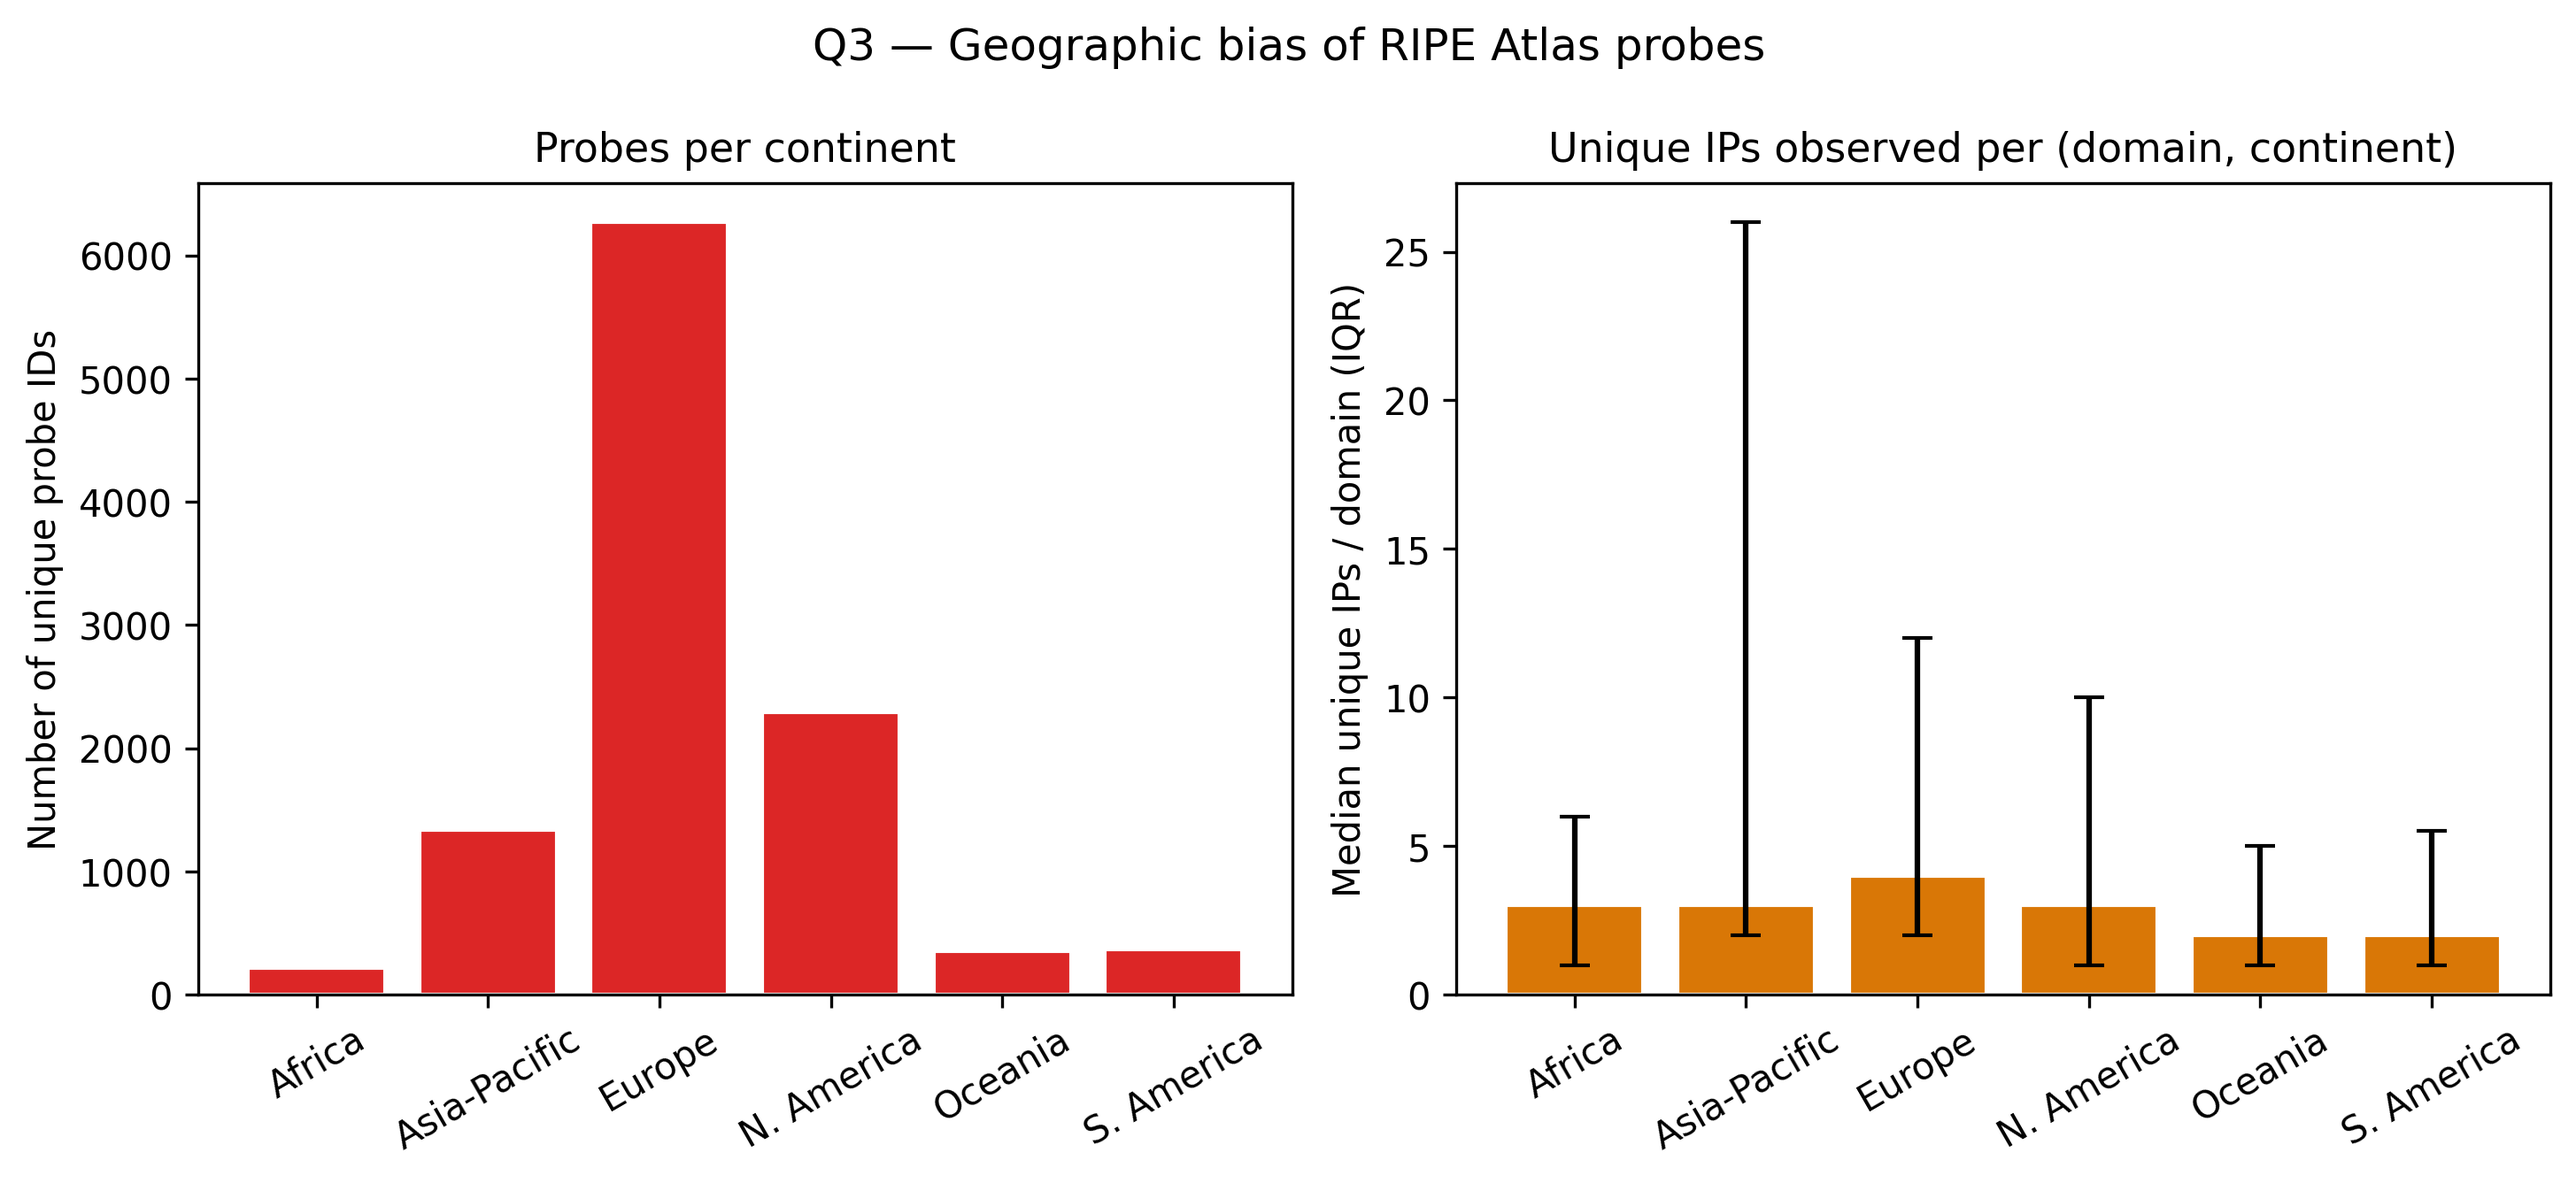
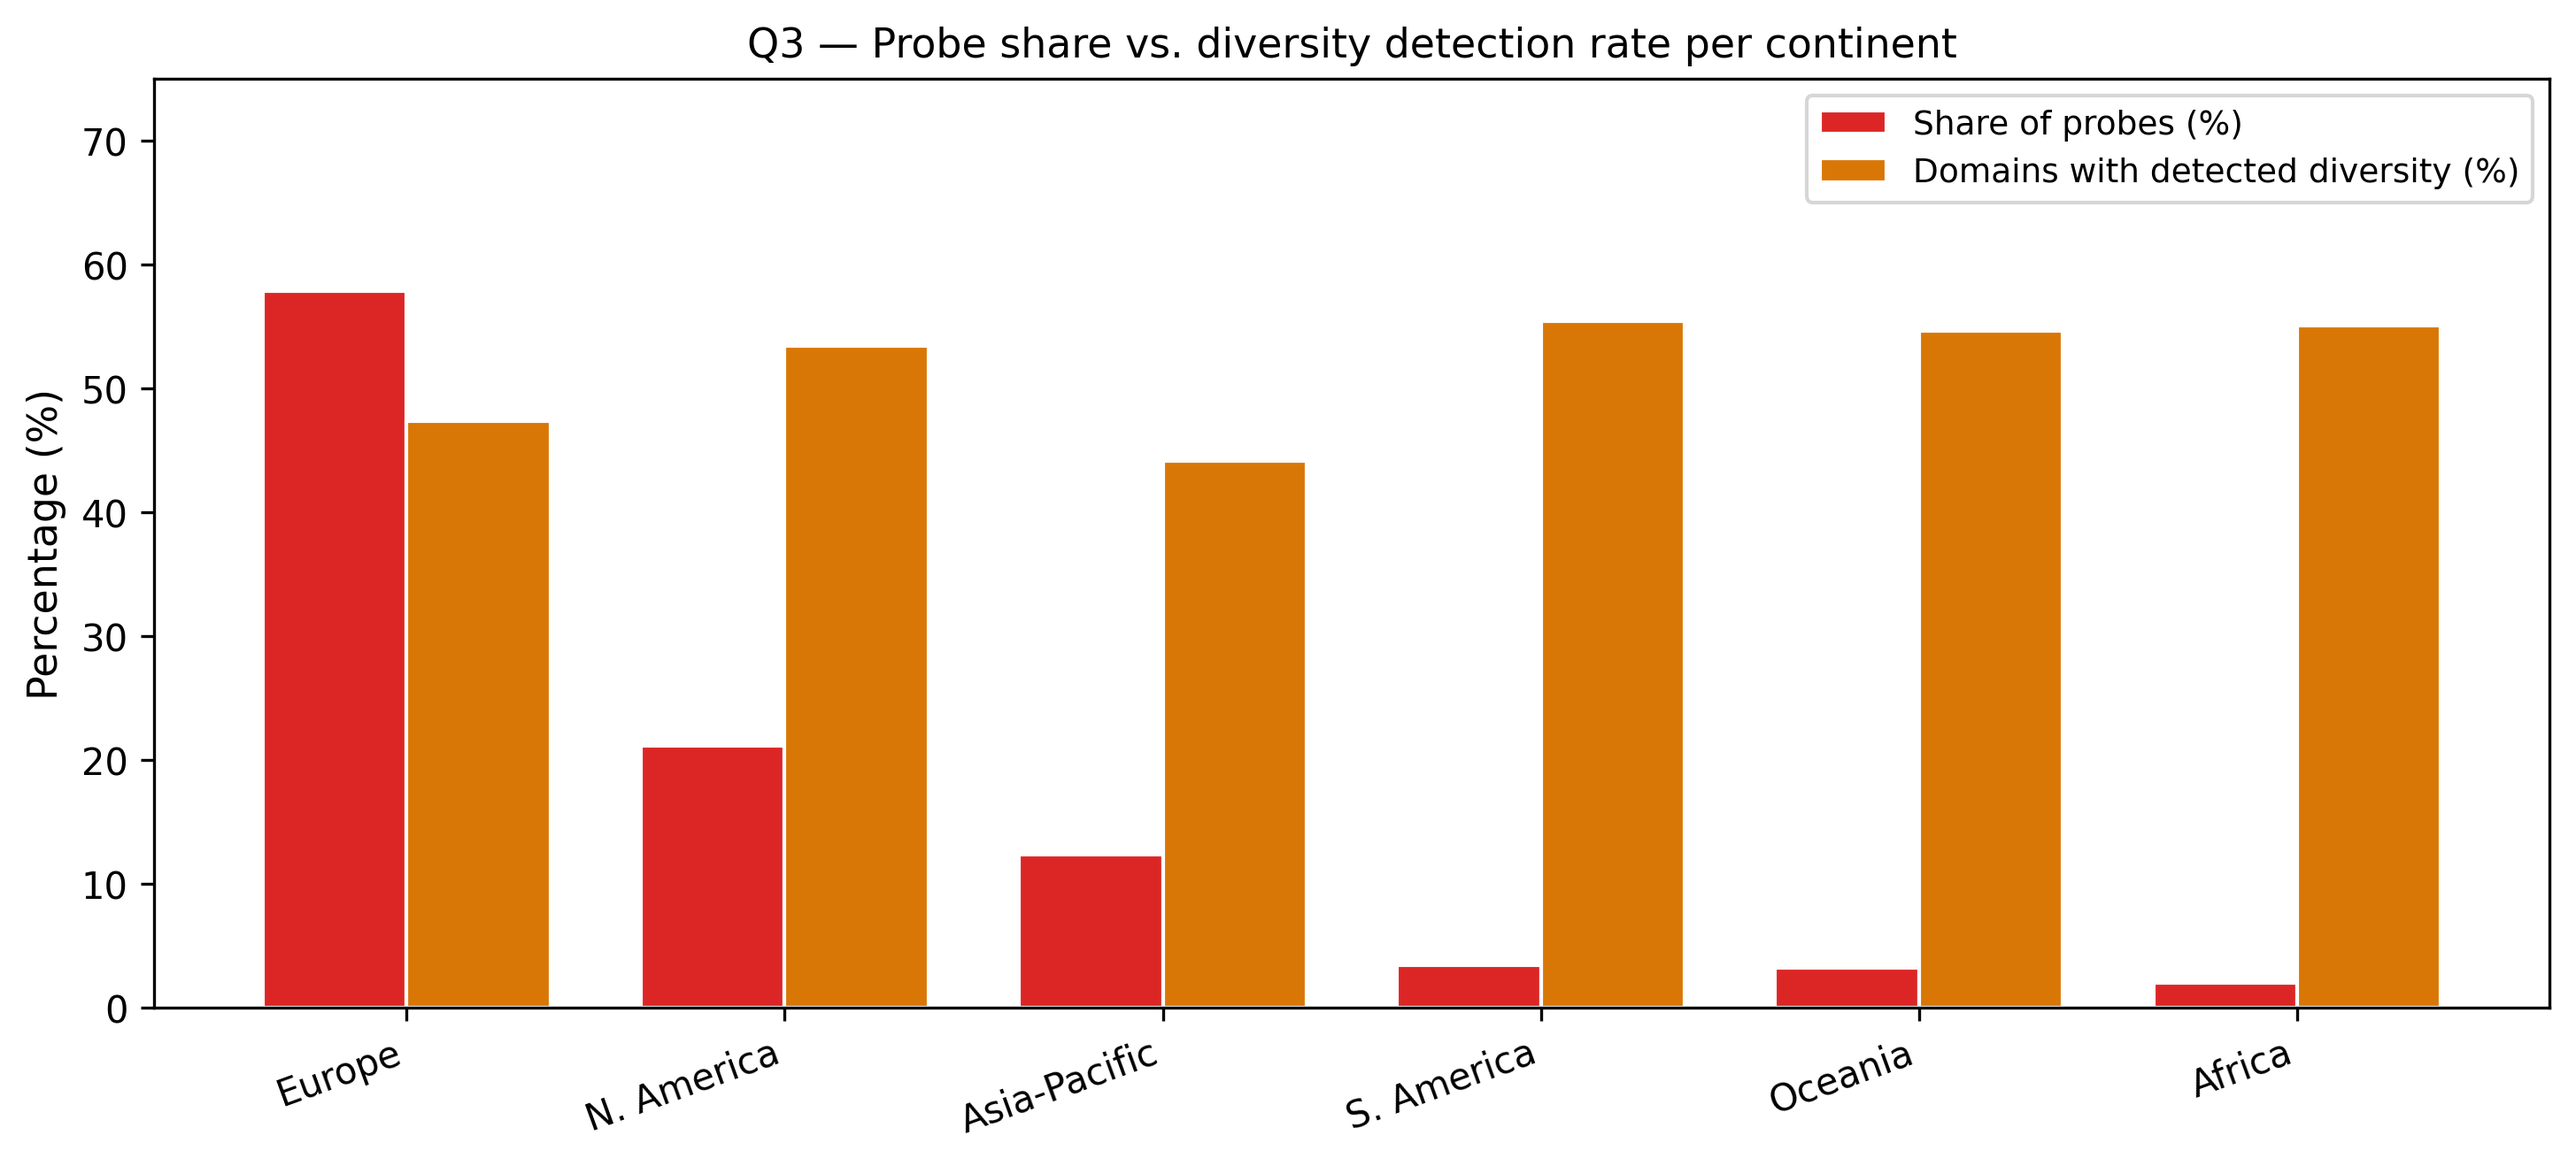
Q3: nouvelle figure probe share vs diversité, interprétation mise à jour

diff --git a/latex/long/04-results.tex b/latex/long/04-results.tex
@@ -57,19 +57,19 @@ Table~\ref{tab:4.2} reports the geographic distribution of the 10,819 unique pro
 \begin{table}[H]
 \centering
 \small
-\caption{Geographic distribution of unique probe IDs by continent (2--18 April 2026)}
+\caption{Geographic distribution of unique probe IDs by continent (2--18 April 2026). ``Countries covered'' is the number of distinct countries contributing at least one probe across the full campaign; ``Avg.\ probes/country'' is the ratio of unique probe IDs to countries covered, reflecting sampling density.}
 \label{tab:4.2}
-\begin{tabular}{l r r}
+\begin{tabular}{l r r r r}
 \toprule
-\textbf{Continent} & \textbf{Unique probe IDs} & \textbf{Share (\%)} \\
+\textbf{Continent} & \textbf{Unique probe IDs} & \textbf{Share (\%)} & \textbf{Countries covered} & \textbf{Avg.\ probes/country} \\
 \midrule
-Europe          & 6,251 & 57.8\% \\
-North America   & 2,293 & 21.2\% \\
-Asia-Pacific    & 1,338 & 12.4\% \\
-South America   &   371 &  3.4\% \\
-Oceania         &   349 &  3.2\% \\
-Africa          &   217 &  2.0\% \\
-\textbf{Total}  & \textbf{10,819} & \textbf{100\%} \\
+Europe          & 6,270 & 57.8\% & 44  & 142.5 \\
+North America   & 2,293 & 21.2\% & 13  & 176.4 \\
+Asia-Pacific    & 1,339 & 12.4\% & 63  &  21.3 \\
+South America   &   371 &  3.4\% & 10  &  37.1 \\
+Oceania         &   350 &  3.2\% &  8  &  43.8 \\
+Africa          &   217 &  2.0\% & 35  &   6.2 \\
+\textbf{Total}  & \textbf{10,840} & \textbf{100\%} & \textbf{173} & \textbf{62.7} \\
 \bottomrule
 \end{tabular}
 \end{table}
@@ -103,14 +103,14 @@ The 111 remaining domains (44.9\%) returned a consistent set of IP addresses acr
 \begin{figure}[H]
 \centering
 \includegraphics[width=0.85\textwidth]{figures/fig_q1a_ip_set_diversity.png}
-\caption{Distribution of the number of distinct IP address sets observed across continental probe groups (17-day measurement window, 247 domains). A value of 1 indicates a uniform response across all continents; values above 1 indicate geographic differentiation.}
+\caption{Distribution of the number of distinct IP address sets per domain, at two geographic granularities (17-day measurement window, 247 domains). \textit{Left}: continent-level --- a value of 1 indicates a uniform response across all six continental probe groups; values above 1 indicate cross-continental differentiation. \textit{Right}: country-level --- the long tail extending to 54 distinct IP sets reflects fine-grained CDN routing that differentiates responses at the individual country level.}
 \label{fig:q1a}
 \end{figure}
 
 \begin{figure}[H]
 \centering
 \includegraphics[width=0.85\textwidth]{figures/fig_q1b_top20_geo_diverse.png}
-\caption{Top 20 most geographically diverse domains, ranked by mean number of distinct IP address sets observed across continental probe groups.}
+\caption{Top 20 most geographically diverse domains, ranked by mean number of distinct IP address sets observed at the country level. Values annotated on each bar are the mean count over the 17-day measurement window.}
 \label{fig:q1b}
 \end{figure}
 
@@ -124,9 +124,9 @@ Among the 136 continent-diverse domains, the NSID presence rate is expected to b
 \subsection{Interpretation}
 \label{subsec:4.2.3}
 
-The 55.1\% continent-level geographic diversity rate among the Tranco Top 250 is consistent with the CDN-heavy composition of the top-ranked domains: major web properties served by Cloudflare, Akamai, Fastly, or Amazon CloudFront routinely return different IP pools to different geographic regions. The 10.43 mean country-level IP sets suggests that CDN operators maintain fine-grained geographic routing tables at the country or even sub-country level.
+The 55.1\% continent-level geographic diversity rate among the Tranco Top 250 is consistent with the CDN-heavy composition of the top-ranked domains: major web properties served by Cloudflare, Akamai, Fastly, or Amazon CloudFront routinely return different IP pools to different geographic regions. The jump from a mean of 2.64 distinct IP sets at the continent level to 10.43 at the country level (Section~\ref{subsec:4.2.1}) indicates that CDN operators do not simply route by continental region: they maintain fine-grained routing tables that differentiate responses at the individual country level or below.
 
-The 17-day measurement window provides a more reliable estimate of geographic diversity than the initial 2-day pilot: CDN routing policies that change slowly (e.g., weekly pool rotations) are now captured within the observation period. The remaining uncertainty is that domains with DNS-level CDN routing driven primarily by ECS (Section~\ref{subsec:3.3.4}) may exhibit diversity patterns visible at the resolver level but not at the probe level, since RIPE Atlas probes use their local ISP resolver which may or may not forward ECS to authoritative servers.
+The 17-day measurement window provides a more reliable estimate of geographic diversity than the 9-day pilot phase alone: CDN routing policies that change slowly (e.g., weekly pool rotations) are now captured within the observation period. The remaining uncertainty is that domains with DNS-level CDN routing driven primarily by ECS (Section~\ref{subsec:3.3.4}) may exhibit diversity patterns visible at the resolver level but not at the probe level, since RIPE Atlas probes use their local ISP resolver which may or may not forward ECS to authoritative servers.
 
 \bigskip
 \section{Results for Q2: Temporal Stability}
@@ -188,7 +188,7 @@ The weekly change rate (38.4\%) being indistinguishable from the daily rate (38.
 
 The actual probe distribution (Table~\ref{tab:4.2}) shows that Europe and North America together account for 79.0\% of unique probe IDs, despite the geographic stratification strategy described in Section~\ref{subsec:3.3.1}. This is substantially higher than the target of approximately 30\% (15\% per zone in a balanced global design) and confirms the well-documented structural concentration of RIPE Atlas in Western networks~\cite{Bajpai2017}.
 
-Despite this concentration, the stratification algorithm succeeded in recruiting probes from all six continents and from 173 countries, ensuring that the geographical coverage is global even if the probe counts are unequal.
+The sampling density column (avg.\ probes/country) reveals the depth of the imbalance more starkly than raw counts alone: a European country contributes on average 142.5 probe IDs to the dataset, versus 6.2 for an African country. Asia-Pacific, despite contributing 63 countries (the most of any continent), averages only 21.3 probes per country, reflecting both the scarcity of RIPE Atlas probes in the region and the large number of countries it encompasses. Despite this concentration, the stratification algorithm succeeded in recruiting probes from 173 countries across all six continents, ensuring that global geographic coverage is maintained even if sampling density is unequal.
 
 \subsection{Statistical Test of Measurement Impact}
 \label{subsec:4.4.2}
@@ -212,18 +212,16 @@ This test is also statistically significant ($\alpha = 0.05$), indicating that c
 \begin{figure}[H]
 \centering
 \includegraphics[width=\textwidth]{figures/fig_q3_probe_bias.png}
-\caption{Left: geographic distribution of unique probe IDs by continent. Right: mean number of unique IP address sets observed per (domain, continent) pair, with standard deviation. The Europe+NA group (EU 57.8\%, NA 21.2\%) dominates the probe count; the Mann-Whitney test ($p = 0.024$) confirms that this bias produces a statistically significant difference in observed DNS diversity between the EU+NA group and other regions.}
+\caption{Probe share versus diversity detection rate per continent. Red bars show each continent's share of unique probe IDs in the dataset; orange bars show the percentage of domains for which that continent's probes detect at least one day of geographically differentiated DNS responses. Despite holding only 2--3\% of probes, South America, Oceania, and Africa detect diversity in 55\% of domains --- comparable to or higher than Europe (47\%), which holds 58\% of probes. This indicates that geographic probe imbalance does not prevent underrepresented regions from contributing meaningful diversity observations.}
 \label{fig:q3}
 \end{figure}
 
 \subsection{Interpretation}
 \label{subsec:4.4.3}
 
-The statistically significant difference between EU+NA and other regions ($p = 0.024$) quantifies the impact of RIPE Atlas geographic bias on the measurement results for Q1 and Q2. The practical consequence is that the 55.1\% geographic diversity rate reported in Section~\ref{sec:4.2} should be regarded as a conservative lower bound: regions underrepresented in the probe pool (Africa, South America, Oceania) may return distinct DNS responses that the current probe distribution cannot detect with statistical reliability.
+Figure~\ref{fig:q3} reveals a counter-intuitive result: despite holding only 2--3\% of probes, South America (55.5\%), Oceania (54.7\%), and Africa (55.1\%) detect geographic DNS diversity in a higher proportion of domains than Europe (47.4\%), which holds 58\% of probes. This finding suggests that probe density does not limit the ability to \emph{detect} geographic diversity: even a small number of probes from an underrepresented region is sufficient to observe that authoritative servers return different IP addresses there. The Mann-Whitney test ($p = 0.024$) confirms that the IP-set distributions differ statistically between EU+NA and other regions, which should be interpreted as evidence that CDN routing genuinely differentiates responses by region, not as a sign that underrepresented regions are blind spots.
 
-The mean per-(domain, continent) IP-set counts by region reinforce this interpretation: Africa (mean 9.81, median 3.0), Oceania (mean 6.46, median 2.0), and South America (mean 7.90, median 2.0) show lower diversity than Asia-Pacific (mean 37.8, median 3.0), Europe (mean 40.8, median 3.0), and North America (mean 33.2, median 3.0). The high means and large standard deviations for the three well-represented regions reflect a small number of highly diverse domains pulling up the average, a pattern consistent with long-tailed IP-set distributions.
-
-Despite the geographic imbalance, the uniform 99.6\% domain coverage per continent confirms that every continental region provides measurements for virtually every domain in the corpus, avoiding the partial coverage problem that would make cross-continental comparisons unreliable.
+The practical implication for the 55.1\% geographic diversity rate reported in Section~\ref{sec:4.2} is nuanced: the rate is not significantly biased downward by probe imbalance, since underrepresented regions actively contribute diversity observations. The 99.6\% domain coverage per continent confirms that every region provides measurements for virtually every domain, avoiding the partial coverage problem that would make cross-continental comparisons unreliable.
 
 \bigskip
 \section{Results for Q4: Impact of Resolver Choice}
